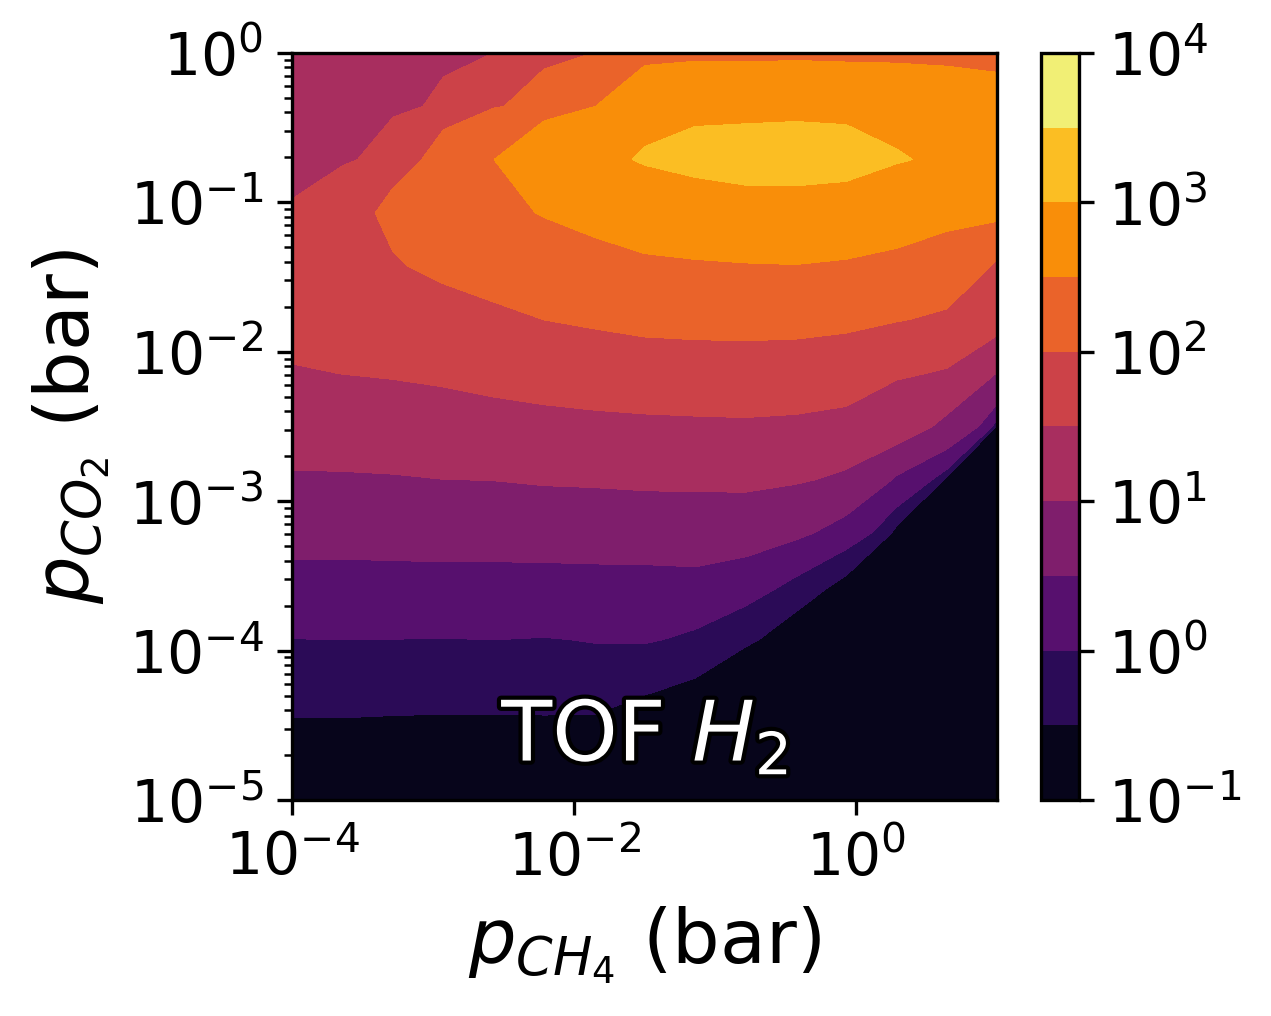
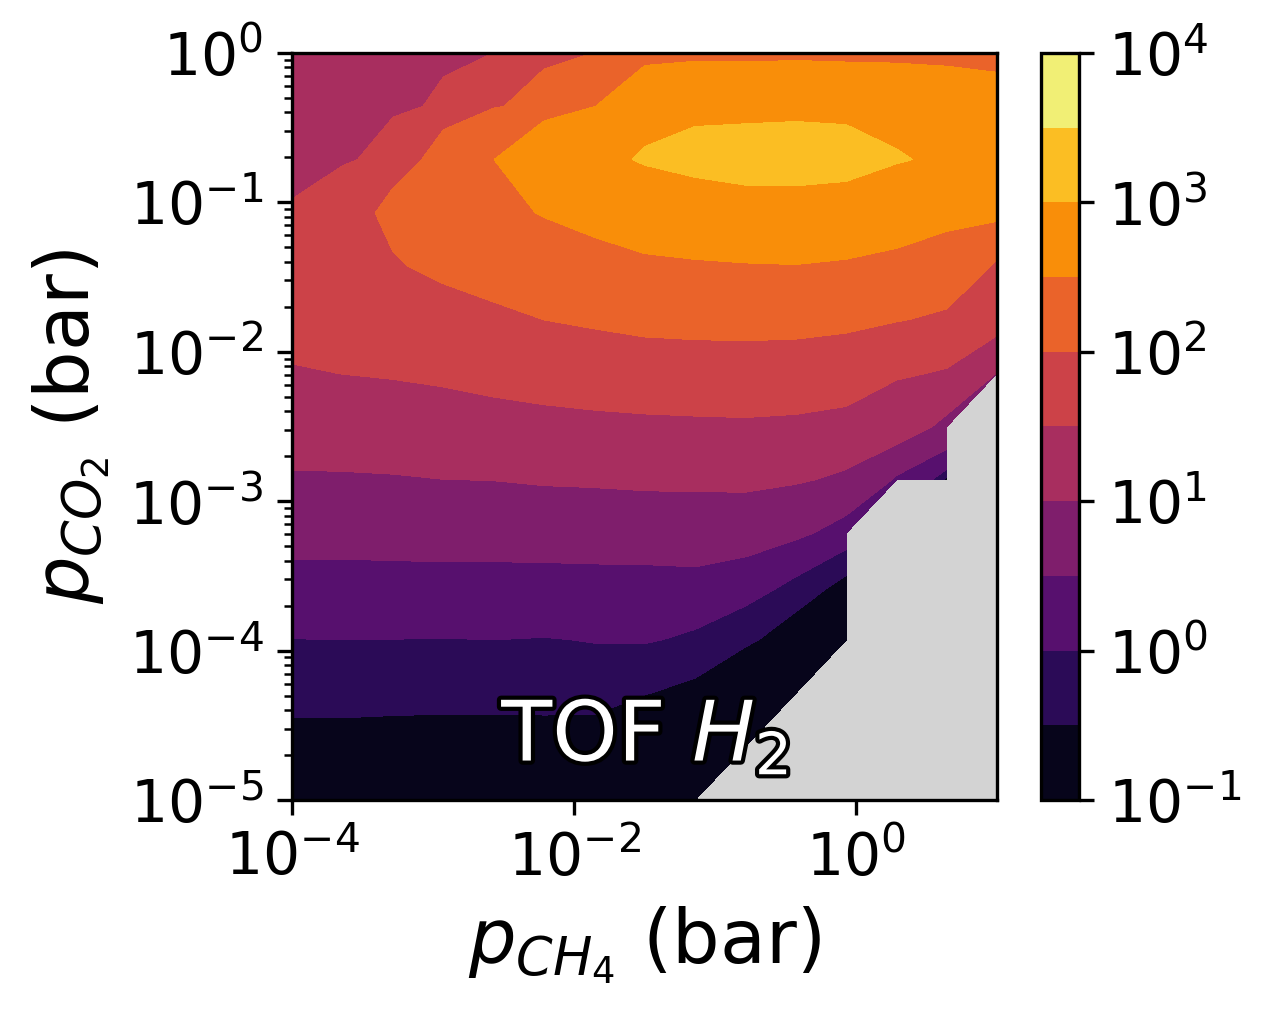
Updated example files.

Changed region(s): [[0.5523, 0.3661, 0.7978, 0.7933]]

diff --git a/examples/DRM_on_PtHfC/multiple_heatmaps.py b/examples/DRM_on_PtHfC/multiple_heatmaps.py
@@ -12,19 +12,20 @@ scan_path = 'simulation_results'
 x_variable = 'pressure_CH4'
 y_variable = 'pressure_CO2'
 
-analysis_range = [50, 100]  # (in %) Ignore first X% of total simulated time (equilibration)
+analysis_range = [50, 100]      # Ignore first 50 % of total simulated time (equilibration)
 range_type = 'time'
 weights = 'time'
 
-min_molec_tof = 0  # To plot TOF and selectivity
-min_molec_selectivity = 100  # To plot TOF and selectivity
-min_coverage = 50  # (in %) To plot phase diagrams
+min_molec_tof = 0               # For TOF and selectivity
+min_molec_selectivity = 100     # For TOF and selectivity
+min_coverage = 50               # (in %) To plot phase diagrams
 
 auto_title = True
 show_points = False
 show_colorbar = True
 
-tick_labels = {  # for phase diagram plots
+# Define labels for phase diagram heatmaps
+tick_labels = {
     '$CH_{x}$': ['CH3*', 'CH3_Pt*', 'CH2*', 'CH2_Pt*', 'CH*', 'CH_Pt*', 'C*', 'C_Pt*'],
     '$CHO/COH$': ['CHO*', 'CHO_Pt*', 'COH*', 'COH_Pt*'],
     '$CO$': ['CO*', 'CO_Pt*'],

diff --git a/examples/DRM_on_PtHfC/tof_heatmap_custom.py b/examples/DRM_on_PtHfC/tof_heatmap_custom.py
@@ -3,7 +3,6 @@ import matplotlib.pyplot as plt
 from zacrostools.heatmaps.tof import plot_tof
 
 fig, axs = plt.subplots(1, figsize=(4.3, 3.5))
-
 cp = plot_tof(
     ax=axs,
     scan_path='simulation_results',
@@ -18,20 +17,16 @@ cp = plot_tof(
     show_points=False,
     show_colorbar=False
 )
-
 # Adjust size of axis ticks
 axs.tick_params(axis='both', which='major', labelsize=14)
-
 # Adjust font size of axis labels
 axs.set_xlabel(axs.get_xlabel(), fontsize=18)
 axs.set_ylabel(axs.get_ylabel(), fontsize=18)
-
 # Adjust font size and position of axis title
 axs.set_title(axs.get_title(), fontsize=20, loc='center', pad=-170)
-
 # Create colorbar and adjust the size of its tick labels
 cbar = plt.colorbar(cp, ax=axs)
-cbar.ax.tick_params(labelsize=14)  # Adjust the colorbar tick label size
+cbar.ax.tick_params(labelsize=14)
 
 plt.tight_layout()
 plt.savefig('tof_heatmap_custom.png', dpi=300, bbox_inches='tight', transparent=False)

diff --git a/examples/DRM_on_PtHfC/phasediagram_heatmap.py b/examples/DRM_on_PtHfC/phasediagram_heatmap.py
@@ -2,7 +2,6 @@ import matplotlib.pyplot as plt
 from zacrostools.heatmaps.phasediagram import plot_phasediagram
 
 fig, axs = plt.subplots(1, figsize=(4.3, 3.5))
-
 tick_labels = {  # for phase diagram plots
     '$CH_{x}$': ['CH3*', 'CH3_Pt*', 'CH2*', 'CH2_Pt*', 'CH*', 'CH_Pt*', 'C*', 'C_Pt*'],
     '$CHO/COH$': ['CHO*', 'CHO_Pt*', 'COH*', 'COH_Pt*'],
@@ -14,14 +13,12 @@ tick_labels = {  # for phase diagram plots
     '$OH$': ['OH*', 'OH_Pt*'],
     '$O$': ['O*', 'O_Pt*'],
 }
-
-
 plot_phasediagram(
     ax=axs,
     scan_path='simulation_results',
     x='pressure_CH4',
     y='pressure_CO2',
-    min_coverage=5.0,
+    min_coverage=50.0,
     site_type='tC',
     tick_labels=tick_labels,
     analysis_range=[50, 100],
@@ -31,7 +28,6 @@ plot_phasediagram(
     show_points=False,
     show_colorbar=True
 )
-
 plt.tight_layout()
 plt.savefig('phasediagram_heatmap.png', dpi=300, bbox_inches='tight', transparent=False)
 plt.show()

diff --git a/examples/DRM_on_PtHfC/dtof_heatmap.py b/examples/DRM_on_PtHfC/dtof_heatmap.py
@@ -3,7 +3,6 @@ import matplotlib.pyplot as plt
 from zacrostools.heatmaps.dtof import plot_dtof
 
 fig, axs = plt.subplots(1, figsize=(4.3, 3.5))
-
 plot_dtof(
     ax=axs,
     scan_path='simulation_results',
@@ -11,6 +10,7 @@ plot_dtof(
     x='pressure_CH4',
     y='pressure_CO2',
     gas_spec='H2',
+    difference_type='absolute',
     min_molec=0,
     analysis_range=[50, 100],
     range_type='time',
@@ -19,7 +19,6 @@ plot_dtof(
     show_points=False,
     show_colorbar=True
 )
-
 plt.tight_layout()
 plt.savefig('dtof_heatmap.png', dpi=300, bbox_inches='tight', transparent=False)
 plt.show()

diff --git a/examples/DRM_on_PtHfC/energyslope_heatmap.py b/examples/DRM_on_PtHfC/energyslope_heatmap.py
@@ -2,7 +2,6 @@ import matplotlib.pyplot as plt
 from zacrostools.heatmaps.energyslope import plot_energyslope
 
 fig, axs = plt.subplots(1, figsize=(4.3, 3.5))
-
 plot_energyslope(
     ax=axs,
     scan_path='simulation_results',
@@ -13,7 +12,6 @@ plot_energyslope(
     show_points=False,
     show_colorbar=True
 )
-
 plt.tight_layout()
 plt.savefig('energyslope_heatmap.png', dpi=300, bbox_inches='tight', transparent=False)
 plt.show()

diff --git a/examples/DRM_on_PtHfC/selectivity_heatmap.py b/examples/DRM_on_PtHfC/selectivity_heatmap.py
@@ -2,7 +2,6 @@ import matplotlib.pyplot as plt
 from zacrostools.heatmaps.selectivity import plot_selectivity
 
 fig, axs = plt.subplots(1, figsize=(4.3, 3.5))
-
 plot_selectivity(
     ax=axs,
     scan_path='simulation_results',
@@ -17,7 +16,6 @@ plot_selectivity(
     show_points=False,
     show_colorbar=True
 )
-
 plt.tight_layout()
 plt.savefig('selectivity_heatmap.png', dpi=300, bbox_inches='tight', transparent=False)
 plt.show()

diff --git a/examples/DRM_on_PtHfC/finaltime_heatmap.py b/examples/DRM_on_PtHfC/finaltime_heatmap.py
@@ -3,7 +3,6 @@ import matplotlib.pyplot as plt
 from zacrostools.heatmaps.finaltime import plot_finaltime
 
 fig, axs = plt.subplots(1, figsize=(4.3, 3.5))
-
 plot_finaltime(
     ax=axs,
     scan_path='simulation_results',
@@ -14,7 +13,6 @@ plot_finaltime(
     show_points=False,
     show_colorbar=True
 )
-
 plt.tight_layout()
 plt.savefig('finaltime_heatmap.png', dpi=300, bbox_inches='tight', transparent=False)
 plt.show()

diff --git a/examples/DRM_on_PtHfC/coverage_heatmap.py b/examples/DRM_on_PtHfC/coverage_heatmap.py
@@ -2,7 +2,6 @@ import matplotlib.pyplot as plt
 from zacrostools.heatmaps.coverage import plot_coverage
 
 fig, axs = plt.subplots(1, figsize=(4.3, 3.5))
-
 plot_coverage(
     ax=axs,
     scan_path='simulation_results',
@@ -17,7 +16,6 @@ plot_coverage(
     show_points=False,
     show_colorbar=True
 )
-
 plt.tight_layout()
 plt.savefig('coverage_heatmap.png', dpi=300, bbox_inches='tight', transparent=False)
 plt.show()

diff --git a/examples/DRM_on_PtHfC/issues_heatmap.py b/examples/DRM_on_PtHfC/issues_heatmap.py
@@ -2,7 +2,6 @@ import matplotlib.pyplot as plt
 from zacrostools.heatmaps.issues import plot_issues
 
 fig, axs = plt.subplots(1, figsize=(4.3, 3.5))
-
 plot_issues(
     ax=axs,
     scan_path='simulation_results',
@@ -14,7 +13,6 @@ plot_issues(
     show_points=False,
     show_colorbar=True
 )
-
 plt.tight_layout()
 plt.savefig('issues_heatmap.png', dpi=300, bbox_inches='tight', transparent=False)
 plt.show()

diff --git a/examples/DRM_on_PtHfC/tof_heatmap.py b/examples/DRM_on_PtHfC/tof_heatmap.py
@@ -3,7 +3,6 @@ import matplotlib.pyplot as plt
 from zacrostools.heatmaps.tof import plot_tof
 
 fig, axs = plt.subplots(1, figsize=(4.3, 3.5))
-
 plot_tof(
     ax=axs,
     scan_path='simulation_results',
@@ -18,7 +17,6 @@ plot_tof(
     show_points=False,
     show_colorbar=True
 )
-
 plt.tight_layout()
 plt.savefig('tof_heatmap.png', dpi=300, bbox_inches='tight', transparent=False)
 plt.show()
